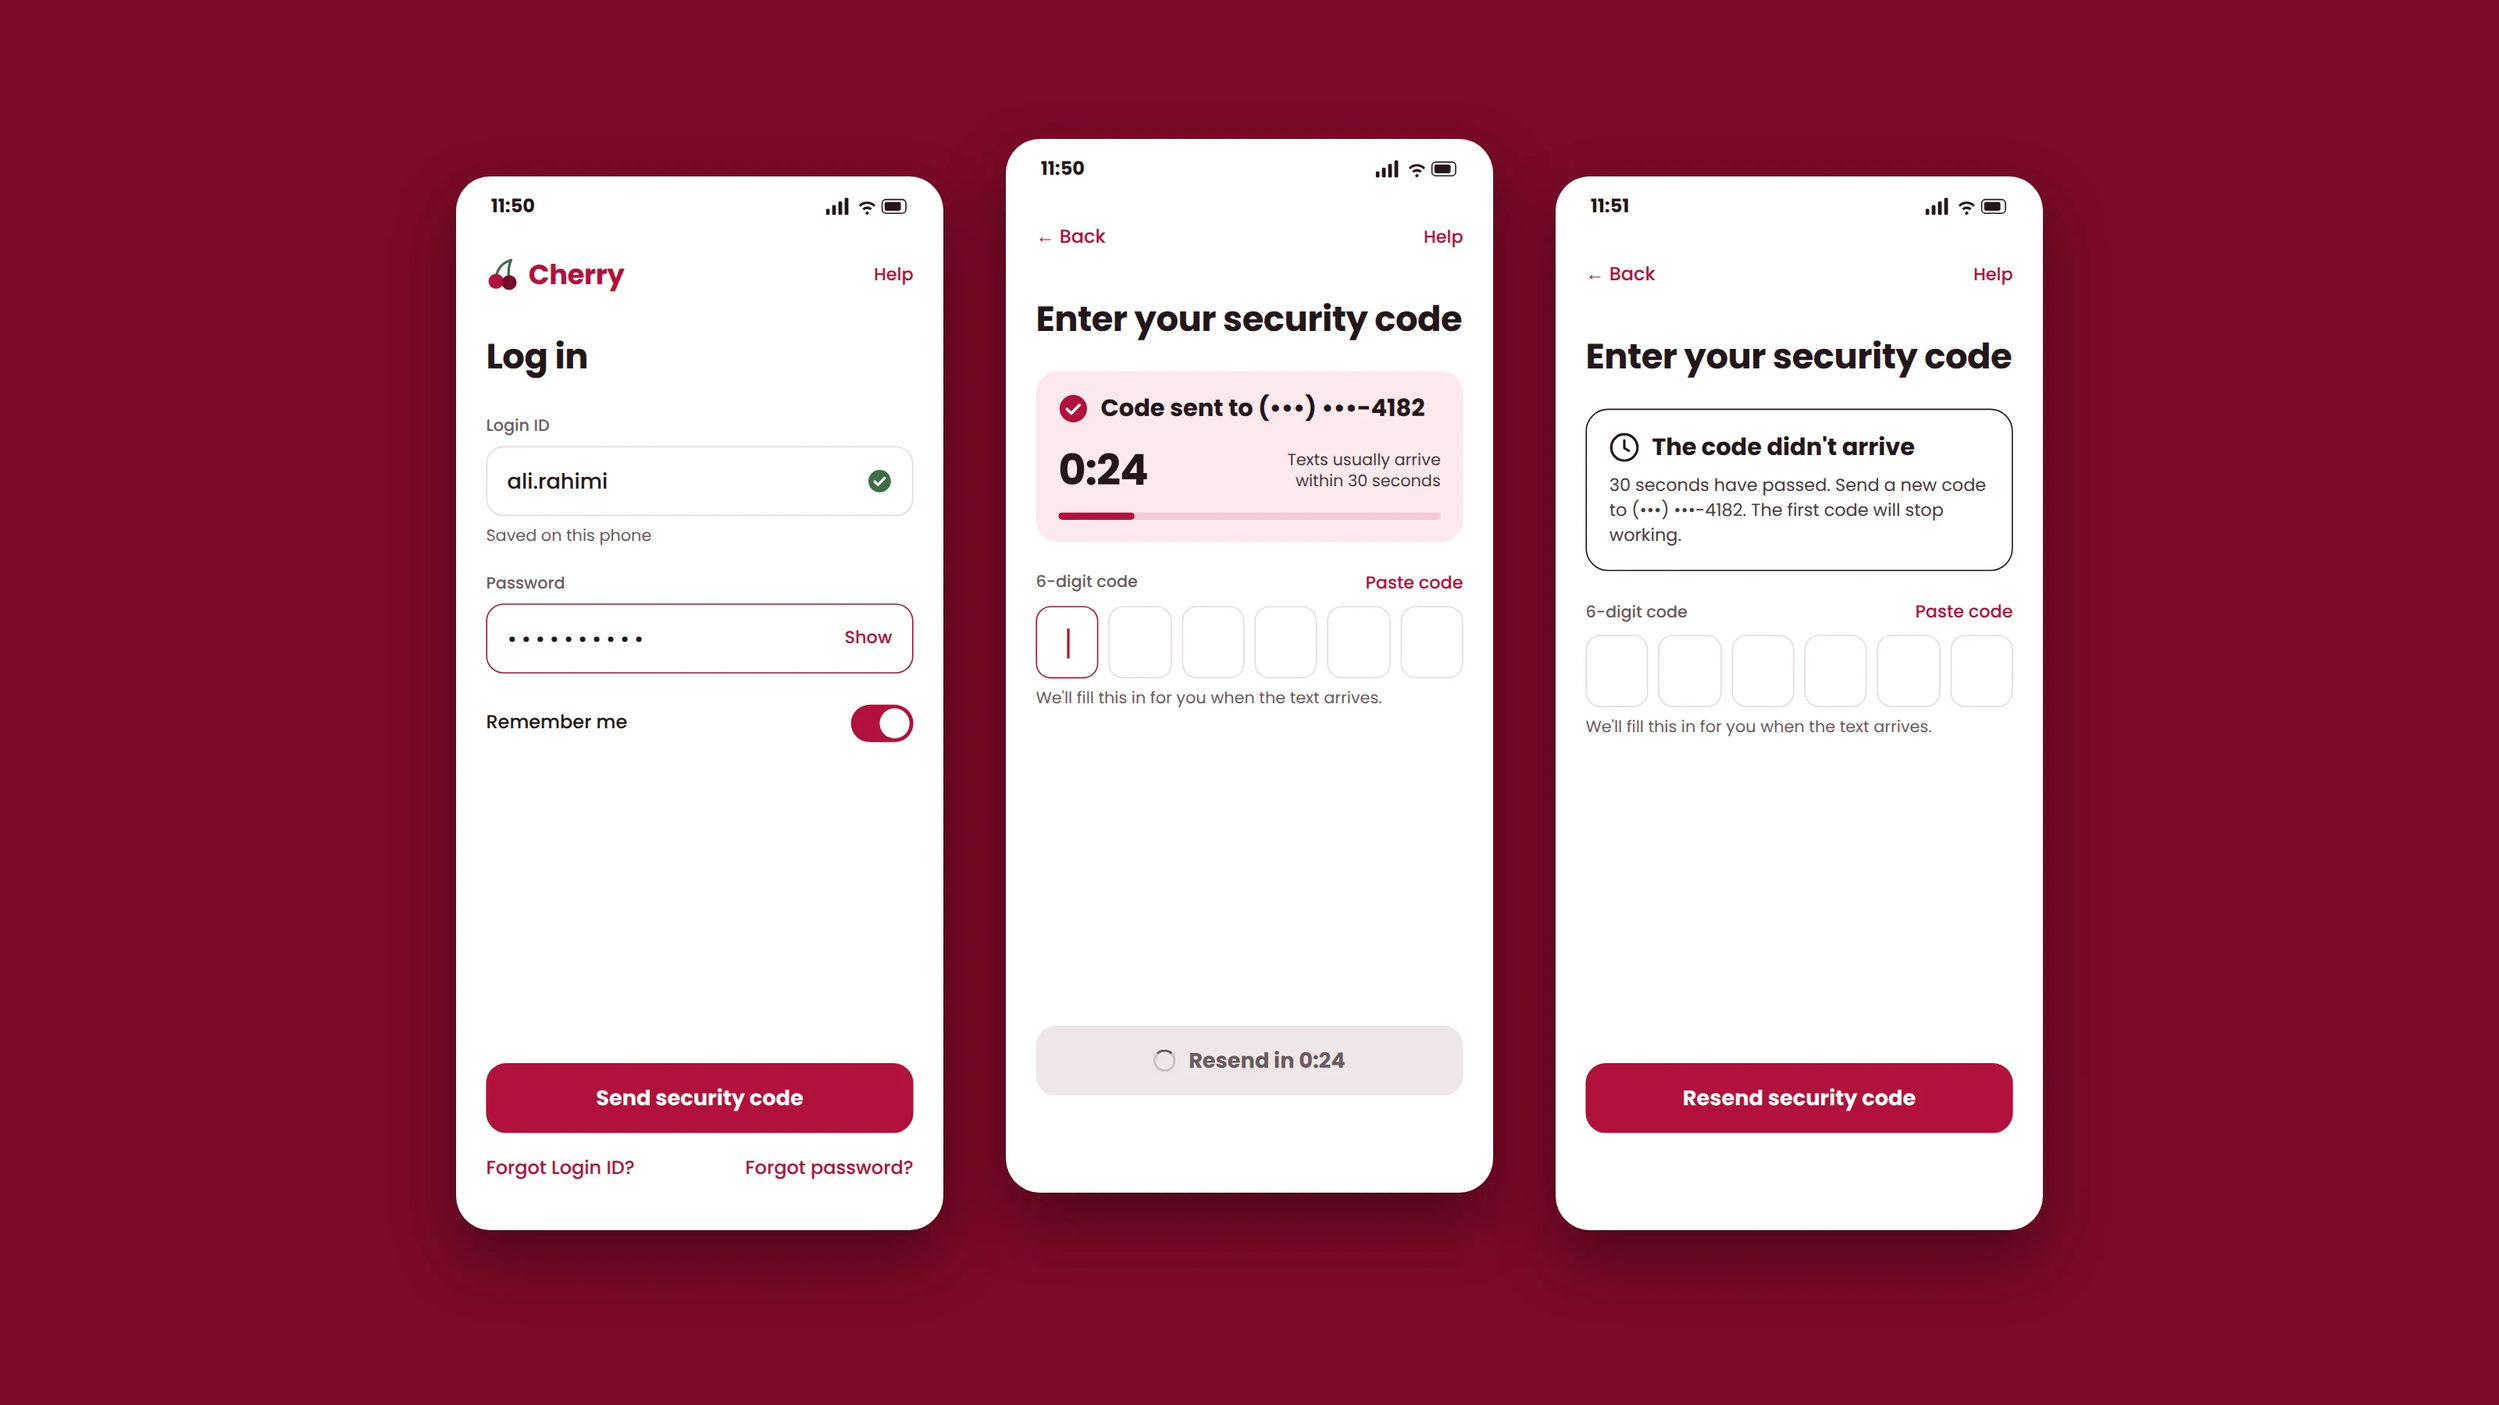
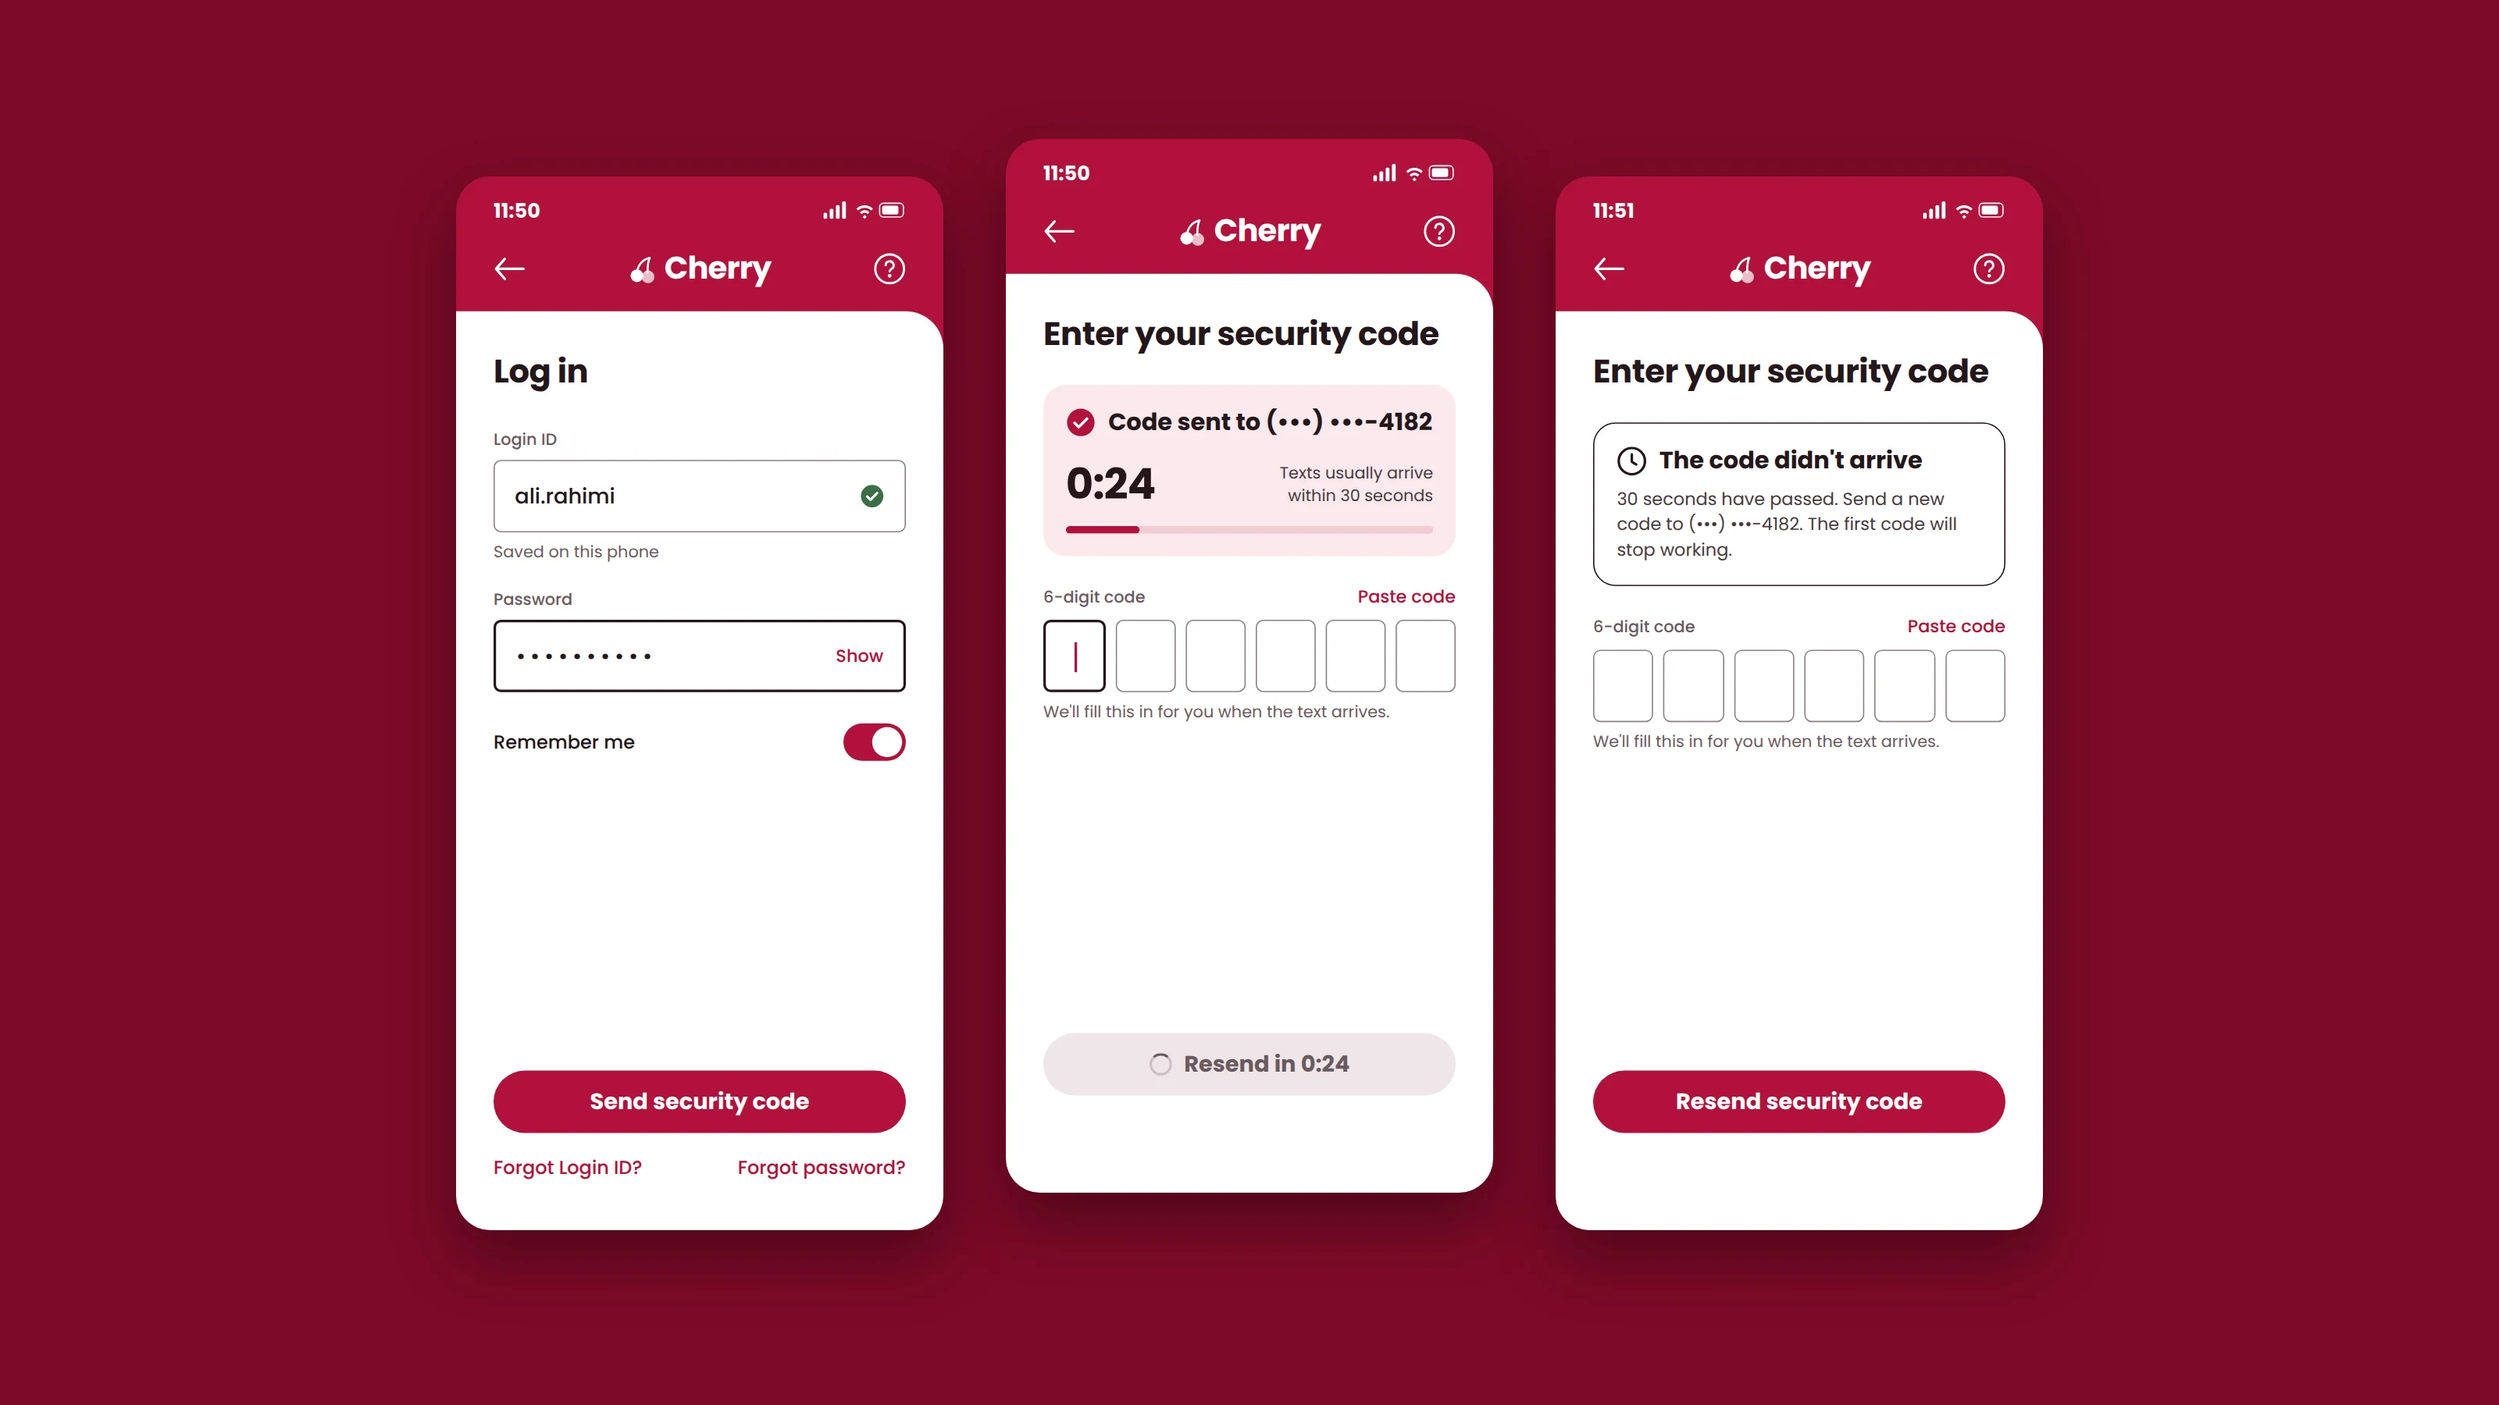
cherry design updated
cherry design updated

diff --git a/cherry-login-screens.html b/cherry-login-screens.html
@@ -13,25 +13,25 @@ main{display:flex;flex-wrap:wrap;gap:24px;justify-content:center;padding:24px 16
 figure{margin:0}
 figcaption{font-size:13px;font-weight:600;color:var(--muted);margin-bottom:8px}
 .wrap{width:312px;height:675px;border-radius:22px;overflow:hidden;box-shadow:0 8px 24px rgba(36,22,26,.14)}
-.phone{width:390px;height:844px;transform:scale(.8);transform-origin:top left;background:var(--page);display:flex;flex-direction:column}
-.status{height:48px;padding:0 28px;display:flex;align-items:center;justify-content:space-between;font-size:15px;font-weight:600}
+.phone{width:390px;height:844px;transform:scale(.8);transform-origin:top left;background:var(--cherry);display:flex;flex-direction:column}
+.status{height:48px;padding:6px 30px 0;display:flex;align-items:center;justify-content:space-between;font-size:16px;font-weight:600;color:#fff}
 .status svg{display:block}
-.body{flex:1;padding:8px 24px 28px;display:flex;flex-direction:column}
-.top{height:44px;display:flex;align-items:center;justify-content:space-between}
-.brand{display:flex;align-items:center;gap:8px;font-weight:600;font-size:22px;color:var(--cherry);letter-spacing:-.01em}
+.body{flex:1;background:var(--page);border-top-right-radius:30px;padding:8px 30px 28px;display:flex;flex-direction:column}
+.top{height:60px;padding:0 30px 8px;display:flex;align-items:center;justify-content:space-between;color:#fff}
+.brand{display:flex;align-items:center;gap:7px;font-weight:600;font-size:25px;color:#fff;letter-spacing:-.02em}
 .help{font-size:14px;font-weight:500;color:var(--cherry)}
-h1{margin:28px 0 0;font-weight:600;font-size:28px;line-height:1.2;letter-spacing:-.01em}
+h1{margin:26px 0 0;font-weight:600;font-size:26px;line-height:1.2;letter-spacing:-.01em}
 .sub{margin:8px 0 0;font-size:15px;line-height:1.45;color:var(--muted)}
 label{display:block;font-size:13px;font-weight:500;color:var(--muted);margin-bottom:6px}
-.field{height:56px;border:1.5px solid var(--line);border-radius:14px;padding:0 16px;display:flex;align-items:center;justify-content:space-between;font-size:17px;font-weight:500}
-.field.focus{border-color:var(--cherry)}
+.field{height:58px;border:1.5px solid #8C8083;border-radius:6px;padding:0 16px;display:flex;align-items:center;justify-content:space-between;font-size:17px;font-weight:500}
+.field.focus{border:2px solid var(--ink)}
 .hint{font-size:13px;color:var(--muted);margin-top:6px}
 .stack{display:flex;flex-direction:column;gap:18px;margin-top:28px}
 .toggle-row{display:flex;align-items:center;justify-content:space-between;font-size:15px;font-weight:500;min-height:44px}
 .toggle{width:50px;height:30px;border-radius:15px;background:var(--cherry);position:relative}
 .toggle::after{content:"";position:absolute;right:3px;top:3px;width:24px;height:24px;border-radius:12px;background:#fff}
 .foot{margin-top:auto;display:flex;flex-direction:column;gap:6px}
-.btn{height:56px;border-radius:16px;background:var(--cherry);color:#fff;font-weight:600;font-size:17px;display:flex;align-items:center;justify-content:center;gap:10px}
+.btn{height:50px;border-radius:25px;background:var(--cherry);color:#fff;font-weight:600;font-size:18px;display:flex;align-items:center;justify-content:center;gap:10px}
 .btn.off{background:var(--off);color:var(--muted)}
 .link{min-height:44px;display:flex;align-items:center;justify-content:center;font-size:15px;font-weight:500;color:var(--cherry)}
 .links{display:flex;justify-content:space-between}
@@ -45,9 +45,9 @@ label{display:block;font-size:13px;font-weight:500;color:var(--muted);margin-bot
 .bar{height:6px;border-radius:3px;background:#F1CBD4;margin-top:8px;overflow:hidden}
 .bar i{display:block;height:100%;width:20%;background:var(--cherry);border-radius:3px}
 .code{display:flex;gap:8px;margin-top:8px}
-.code div{flex:1;height:58px;border:1.5px solid var(--line);border-radius:12px}
-.code div.on{border-color:var(--cherry);position:relative}
-.code div.on::after{content:"";position:absolute;left:50%;top:17px;width:2px;height:24px;background:var(--cherry)}
+.code div{flex:1;height:58px;border:1.5px solid #8C8083;border-radius:6px}
+.code div.on{border:2px solid var(--ink);position:relative}
+.code div.on::after{content:"";position:absolute;left:50%;top:16px;width:2px;height:24px;background:var(--cherry)}
 .code-row{display:flex;justify-content:space-between;align-items:center;margin-top:22px}
 .code-row label{margin:0}
 .paste{font-size:14px;font-weight:500;color:var(--cherry)}
@@ -65,9 +65,9 @@ body.hero figure:nth-child(2){margin-top:-48px}
 <main>
 
 <figure><figcaption>1 &middot; Log in</figcaption><div class="wrap"><div class="phone">
-<div class="status"><span>11:50</span><svg width="66" height="14" viewBox="0 0 66 14" fill="#24161A"><rect x="0" y="9" width="3" height="5" rx="1"/><rect x="5" y="6" width="3" height="8" rx="1"/><rect x="10" y="3" width="3" height="11" rx="1"/><rect x="15" y="0" width="3" height="14" rx="1"/><path d="M33 3.2c2.6 0 4.9 1 6.6 2.7l-1.3 1.4A7.5 7.5 0 0 0 33 5.1c-2 0-3.9.8-5.3 2.2l-1.3-1.4A9.4 9.4 0 0 1 33 3.2Zm0 3.9c1.5 0 2.9.6 3.9 1.600l-1.4 1.400a3.6 3.6 0 0 0-5 0l-1.4-1.400a5.5 5.5 0 0 1 3.9-1.600Zm0 3.7 1.6 1.7-1.6 1.5-1.6-1.500Z"/><rect x="45" y="1.5" width="19" height="11" rx="3" fill="none" stroke="#24161A"/><rect x="47" y="3.5" width="13" height="7" rx="1.5"/></svg></div>
+<div class="status"><span>11:50</span><svg width="66" height="14" viewBox="0 0 66 14" fill="#fff"><rect x="0" y="9" width="3" height="5" rx="1"/><rect x="5" y="6" width="3" height="8" rx="1"/><rect x="10" y="3" width="3" height="11" rx="1"/><rect x="15" y="0" width="3" height="14" rx="1"/><path d="M33 3.2c2.6 0 4.9 1 6.6 2.7l-1.3 1.4A7.5 7.5 0 0 0 33 5.1c-2 0-3.9.8-5.3 2.2l-1.3-1.4A9.4 9.4 0 0 1 33 3.2Zm0 3.9c1.5 0 2.9.6 3.9 1.600l-1.4 1.400a3.6 3.6 0 0 0-5 0l-1.4-1.400a5.5 5.5 0 0 1 3.9-1.600Zm0 3.7 1.6 1.7-1.6 1.5-1.6-1.500Z"/><rect x="45" y="1.5" width="19" height="11" rx="3" fill="none" stroke="#fff"/><rect x="47" y="3.5" width="13" height="7" rx="1.5"/></svg></div>
+<div class="top"><svg width="26" height="20" viewBox="0 0 26 20" fill="none" stroke="#fff" stroke-width="2" stroke-linecap="round" stroke-linejoin="round" role="img" aria-label="Back"><path d="M24 10H2M9 2 2 10l7 8"/></svg><div class="brand"><svg width="22" height="25" viewBox="0 0 26 28"><path d="M8 17C9 10 13 5 20 3M18 17c0-6 0-10 2-14" fill="none" stroke="#fff" stroke-width="2" stroke-linecap="round"/><circle cx="8" cy="20" r="6" fill="#fff"/><circle cx="18.5" cy="21" r="6" fill="#fff" fill-opacity=".72"/></svg>Cherry</div><svg width="26" height="26" viewBox="0 0 26 26" fill="none" stroke="#fff" stroke-width="1.8" stroke-linecap="round" role="img" aria-label="Help"><circle cx="13" cy="13" r="11.5"/><path d="M9.8 10.2a3.2 3.2 0 1 1 4.7 2.800c-.900.500-1.5 1.100-1.5 2.100"/><circle cx="13" cy="18.6" r=".6" fill="#fff"/></svg></div>
 <div class="body">
-<div class="top"><div class="brand"><svg width="26" height="28" viewBox="0 0 26 28"><path d="M8 17C9 10 13 5 20 3M18 17c0-6 0-10 2-14" fill="none" stroke="#3C6E47" stroke-width="2" stroke-linecap="round"/><circle cx="8" cy="20" r="6" fill="#B1123B"/><circle cx="18.5" cy="21" r="6" fill="#7C0A28"/></svg>Cherry</div><div class="help">Help</div></div>
 <h1>Log in</h1>
 <div class="stack">
 <div><label>Login ID</label><div class="field"><span>ali.rahimi</span><svg width="20" height="20" viewBox="0 0 20 20"><circle cx="10" cy="10" r="9" fill="#3C6E47"/><path d="m6 10.3 2.7 2.700L14 7.5" fill="none" stroke="#fff" stroke-width="2" stroke-linecap="round" stroke-linejoin="round"/></svg></div><div class="hint">Saved on this phone</div></div>
@@ -81,9 +81,9 @@ body.hero figure:nth-child(2){margin-top:-48px}
 </div></div></div></figure>
 
 <figure><figcaption>2 &middot; Waiting: the code is on its way</figcaption><div class="wrap"><div class="phone">
-<div class="status"><span>11:50</span><svg width="66" height="14" viewBox="0 0 66 14" fill="#24161A"><rect x="0" y="9" width="3" height="5" rx="1"/><rect x="5" y="6" width="3" height="8" rx="1"/><rect x="10" y="3" width="3" height="11" rx="1"/><rect x="15" y="0" width="3" height="14" rx="1"/><path d="M33 3.2c2.6 0 4.9 1 6.6 2.7l-1.3 1.4A7.5 7.5 0 0 0 33 5.1c-2 0-3.9.8-5.3 2.2l-1.3-1.4A9.4 9.4 0 0 1 33 3.2Zm0 3.9c1.5 0 2.9.6 3.9 1.600l-1.4 1.400a3.6 3.6 0 0 0-5 0l-1.4-1.400a5.5 5.5 0 0 1 3.9-1.600Zm0 3.7 1.6 1.7-1.6 1.5-1.6-1.500Z"/><rect x="45" y="1.5" width="19" height="11" rx="3" fill="none" stroke="#24161A"/><rect x="47" y="3.5" width="13" height="7" rx="1.5"/></svg></div>
+<div class="status"><span>11:50</span><svg width="66" height="14" viewBox="0 0 66 14" fill="#fff"><rect x="0" y="9" width="3" height="5" rx="1"/><rect x="5" y="6" width="3" height="8" rx="1"/><rect x="10" y="3" width="3" height="11" rx="1"/><rect x="15" y="0" width="3" height="14" rx="1"/><path d="M33 3.2c2.6 0 4.9 1 6.6 2.7l-1.3 1.4A7.5 7.5 0 0 0 33 5.1c-2 0-3.9.8-5.3 2.2l-1.3-1.4A9.4 9.4 0 0 1 33 3.2Zm0 3.9c1.5 0 2.9.6 3.9 1.600l-1.4 1.400a3.6 3.6 0 0 0-5 0l-1.4-1.400a5.5 5.5 0 0 1 3.9-1.600Zm0 3.7 1.6 1.7-1.6 1.5-1.6-1.500Z"/><rect x="45" y="1.5" width="19" height="11" rx="3" fill="none" stroke="#fff"/><rect x="47" y="3.5" width="13" height="7" rx="1.5"/></svg></div>
+<div class="top"><svg width="26" height="20" viewBox="0 0 26 20" fill="none" stroke="#fff" stroke-width="2" stroke-linecap="round" stroke-linejoin="round" role="img" aria-label="Back"><path d="M24 10H2M9 2 2 10l7 8"/></svg><div class="brand"><svg width="22" height="25" viewBox="0 0 26 28"><path d="M8 17C9 10 13 5 20 3M18 17c0-6 0-10 2-14" fill="none" stroke="#fff" stroke-width="2" stroke-linecap="round"/><circle cx="8" cy="20" r="6" fill="#fff"/><circle cx="18.5" cy="21" r="6" fill="#fff" fill-opacity=".72"/></svg>Cherry</div><svg width="26" height="26" viewBox="0 0 26 26" fill="none" stroke="#fff" stroke-width="1.8" stroke-linecap="round" role="img" aria-label="Help"><circle cx="13" cy="13" r="11.5"/><path d="M9.8 10.2a3.2 3.2 0 1 1 4.7 2.800c-.900.500-1.5 1.100-1.5 2.100"/><circle cx="13" cy="18.6" r=".6" fill="#fff"/></svg></div>
 <div class="body">
-<div class="top"><div class="help" style="font-size:15px">&larr; Back</div><div class="help">Help</div></div>
 <h1>Enter your security code</h1>
 <div class="card">
 <div class="card-head"><svg width="24" height="24" viewBox="0 0 24 24"><circle cx="12" cy="12" r="11" fill="#B1123B"/><path d="m7 12.4 3.3 3.300L17 9" fill="none" stroke="#fff" stroke-width="2.2" stroke-linecap="round" stroke-linejoin="round"/></svg>Code sent to (&bull;&bull;&bull;) &bull;&bull;&bull;-4182</div>
@@ -100,9 +100,9 @@ body.hero figure:nth-child(2){margin-top:-48px}
 </div></div></div></figure>
 
 <figure><figcaption>3 &middot; Timeout: resend unlocks</figcaption><div class="wrap"><div class="phone">
-<div class="status"><span>11:51</span><svg width="66" height="14" viewBox="0 0 66 14" fill="#24161A"><rect x="0" y="9" width="3" height="5" rx="1"/><rect x="5" y="6" width="3" height="8" rx="1"/><rect x="10" y="3" width="3" height="11" rx="1"/><rect x="15" y="0" width="3" height="14" rx="1"/><path d="M33 3.2c2.6 0 4.9 1 6.6 2.7l-1.3 1.4A7.5 7.5 0 0 0 33 5.1c-2 0-3.9.8-5.3 2.2l-1.3-1.4A9.4 9.4 0 0 1 33 3.2Zm0 3.9c1.5 0 2.9.6 3.9 1.600l-1.4 1.400a3.6 3.6 0 0 0-5 0l-1.4-1.400a5.5 5.5 0 0 1 3.9-1.600Zm0 3.7 1.6 1.7-1.6 1.5-1.6-1.500Z"/><rect x="45" y="1.5" width="19" height="11" rx="3" fill="none" stroke="#24161A"/><rect x="47" y="3.5" width="13" height="7" rx="1.5"/></svg></div>
+<div class="status"><span>11:51</span><svg width="66" height="14" viewBox="0 0 66 14" fill="#fff"><rect x="0" y="9" width="3" height="5" rx="1"/><rect x="5" y="6" width="3" height="8" rx="1"/><rect x="10" y="3" width="3" height="11" rx="1"/><rect x="15" y="0" width="3" height="14" rx="1"/><path d="M33 3.2c2.6 0 4.9 1 6.6 2.7l-1.3 1.4A7.5 7.5 0 0 0 33 5.1c-2 0-3.9.8-5.3 2.2l-1.3-1.4A9.4 9.4 0 0 1 33 3.2Zm0 3.9c1.5 0 2.9.6 3.9 1.600l-1.4 1.400a3.6 3.6 0 0 0-5 0l-1.4-1.400a5.5 5.5 0 0 1 3.9-1.600Zm0 3.7 1.6 1.7-1.6 1.5-1.6-1.500Z"/><rect x="45" y="1.5" width="19" height="11" rx="3" fill="none" stroke="#fff"/><rect x="47" y="3.5" width="13" height="7" rx="1.5"/></svg></div>
+<div class="top"><svg width="26" height="20" viewBox="0 0 26 20" fill="none" stroke="#fff" stroke-width="2" stroke-linecap="round" stroke-linejoin="round" role="img" aria-label="Back"><path d="M24 10H2M9 2 2 10l7 8"/></svg><div class="brand"><svg width="22" height="25" viewBox="0 0 26 28"><path d="M8 17C9 10 13 5 20 3M18 17c0-6 0-10 2-14" fill="none" stroke="#fff" stroke-width="2" stroke-linecap="round"/><circle cx="8" cy="20" r="6" fill="#fff"/><circle cx="18.5" cy="21" r="6" fill="#fff" fill-opacity=".72"/></svg>Cherry</div><svg width="26" height="26" viewBox="0 0 26 26" fill="none" stroke="#fff" stroke-width="1.8" stroke-linecap="round" role="img" aria-label="Help"><circle cx="13" cy="13" r="11.5"/><path d="M9.8 10.2a3.2 3.2 0 1 1 4.7 2.800c-.900.500-1.5 1.100-1.5 2.100"/><circle cx="13" cy="18.6" r=".6" fill="#fff"/></svg></div>
 <div class="body">
-<div class="top"><div class="help" style="font-size:15px">&larr; Back</div><div class="help">Help</div></div>
 <h1>Enter your security code</h1>
 <div class="card warn">
 <div class="card-head"><svg width="24" height="24" viewBox="0 0 24 24"><circle cx="12" cy="12" r="10.5" fill="none" stroke="#24161A" stroke-width="2"/><path d="M12 6.500v6l3.5 2.2" fill="none" stroke="#24161A" stroke-width="2" stroke-linecap="round" stroke-linejoin="round"/></svg>The code didn't arrive</div>
